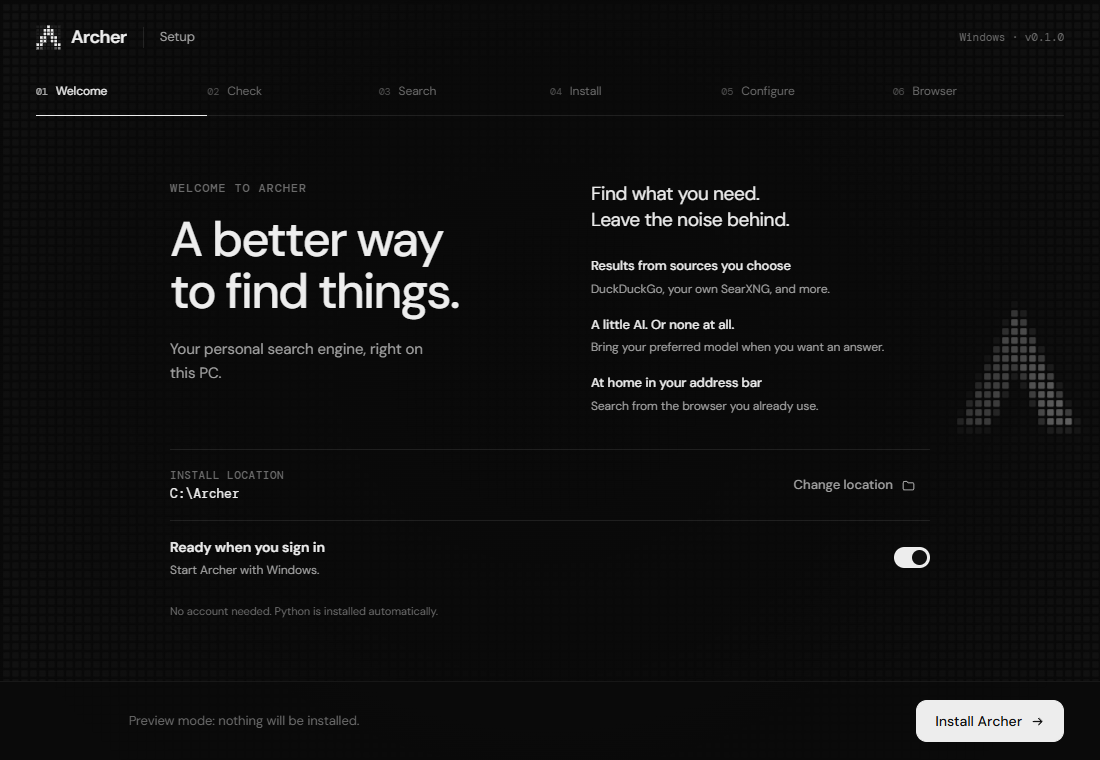
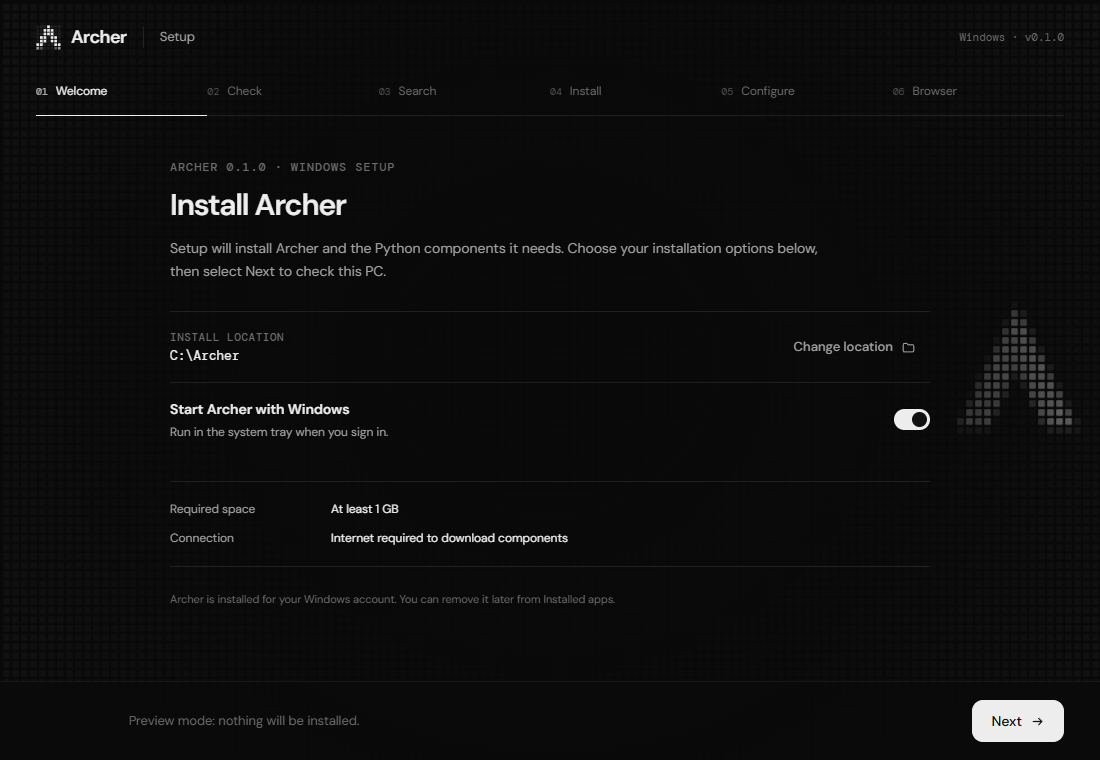
Use a conventional installer options page for setup

diff --git a/installer/ui/setup.css b/installer/ui/setup.css
@@ -89,14 +89,13 @@ body.is-intro .panel { opacity: 0; }
 .tile--letter { width: 40px; height: 40px; background: #f2f2f2; color: #111; font: 700 17px var(--font-display); }
 
 /* welcome */
-.view[data-view=welcome] { display: grid; grid-template-columns: 1.1fr 1fr; align-content: center; column-gap: 48px; row-gap: 34px; }
-.welcome-heading h1 { margin-top: 18px; font-size: 49px; line-height: 1.06; font-weight: 500; }
-.welcome-caption { margin: 20px 0 0; color: var(--text-2); font-size: 15px; max-width: 260px; }
-.welcome-intro > p { margin: 0 0 22px; font-size: 19px; line-height: 1.4; letter-spacing: -.02em; }
-.welcome-features { display: grid; gap: 17px; margin: 0; padding: 0; list-style: none; }
-.welcome-features li { display: grid; gap: 3px; }
-.welcome-features b { font-size: 13px; font-weight: 500; }
-.welcome-features span { color: var(--text-2); font-size: 12px; line-height: 1.5; }
+.view[data-view=welcome] { display: block; padding-top: 44px; }
+.welcome-heading h1 { margin-top: 12px; font-size: 30px; line-height: 1.2; font-weight: 600; }
+.welcome-caption { margin: 14px 0 28px; color: var(--text-2); font-size: 14px; max-width: 650px; line-height: 1.65; }
+.install-requirements { display: grid; gap: 10px; margin: 24px 0; padding: 18px 0; border-top: 1px solid var(--border); border-bottom: 1px solid var(--border); }
+.install-requirements > div { display: grid; grid-template-columns: 145px minmax(0, 1fr); gap: 16px; font-size: 12px; }
+.install-requirements dt { color: var(--text-2); }
+.install-requirements dd { margin: 0; color: var(--text); }
 .welcome-options { grid-column: 1 / -1; border-top: 1px solid var(--border); }
 .welcome-options .where { margin: 0; padding: 18px 0; border: 0; border-radius: 0; background: transparent; }
 .welcome-options .toggle { justify-content: space-between; margin: 0; padding: 15px 0; border: 0; border-top: 1px solid var(--border); border-radius: 0; background: transparent; }
@@ -287,10 +286,10 @@ kbd { padding: 2px 6px; border: 1px solid var(--border); border-radius: 5px; col
   .status { flex-basis: 45%; white-space: normal; font-size: 11px; }
   h1 { font-size: 38px; }
   h2 { font-size: 30px; }
-  .view[data-view=welcome] { grid-template-columns: 1fr; gap: 24px; align-content: start; }
-  .welcome-heading h1 { font-size: 38px; }
-  .welcome-intro > p { display: none; }
-  .welcome-caption { max-width: none; margin-top: 14px; }
+  .view[data-view=welcome] { padding-top: 26px; }
+  .welcome-heading h1 { font-size: 28px; }
+  .welcome-caption { max-width: none; }
+  .install-requirements > div { grid-template-columns: 110px minmax(0,1fr); gap: 10px; }
   .welcome-options .where { gap: 8px; }
   .welcome-options .where .btn { font-size: 11px; }
   .handoff { grid-template-columns: 1fr; }

diff --git a/installer/ui/index.html b/installer/ui/index.html
@@ -53,17 +53,9 @@
     <!-- ------------------------------------------------------------- welcome -->
     <section class="view" data-view="welcome" hidden>
       <div class="welcome-heading" data-rise>
-        <p class="kicker">Welcome to Archer</p>
-        <h1>A better way<br>to find things.</h1>
-        <p class="welcome-caption">Your personal search engine, right on this PC.</p>
-      </div>
-      <div class="welcome-intro" data-rise>
-        <p>Find what you need.<br>Leave the noise behind.</p>
-        <ul class="welcome-features">
-          <li><b>Results from sources you choose</b><span>DuckDuckGo, your own SearXNG, and more.</span></li>
-          <li><b>A little AI. Or none at all.</b><span>Bring your preferred model when you want an answer.</span></li>
-          <li><b>At home in your address bar</b><span>Search from the browser you already use.</span></li>
-        </ul>
+        <p class="kicker">Archer {{version}} · Windows setup</p>
+        <h1 data-welcome-title>Install Archer</h1>
+        <p class="welcome-caption">Setup will install Archer and the Python components it needs. Choose your installation options below, then select Next to check this PC.</p>
       </div>
       <div class="welcome-options" data-rise>
         <div class="where">
@@ -71,11 +63,15 @@
           <button type="button" class="btn btn--quiet" data-pick-dir>Change location<svg><use href="#i-folder"/></svg></button>
         </div>
         <label class="toggle">
-          <span><b>Ready when you sign in</b><span>Start Archer with Windows.</span></span>
+          <span><b>Start Archer with Windows</b><span>Run in the system tray when you sign in.</span></span>
           <input type="checkbox" data-autostart checked>
           <span class="switch" aria-hidden="true"></span>
         </label>
-        <p class="welcome-note">No account needed. Python is installed automatically.</p>
+        <dl class="install-requirements">
+          <div><dt>Required space</dt><dd>At least 1 GB</dd></div>
+          <div><dt>Connection</dt><dd>Internet required to download components</dd></div>
+        </dl>
+        <p class="welcome-note">Archer is installed for your Windows account. You can remove it later from Installed apps.</p>
       </div>
     </section>
 

diff --git a/installer/ui/setup.js b/installer/ui/setup.js
@@ -348,9 +348,10 @@ const VIEWS = {
     const dir = $("[data-dir]");
     dir.textContent = S.info.dir;
     dir.title = S.info.dir;
+    $("[data-welcome-title]").textContent = S.info.existing ? "Update Archer" : "Install Archer";
     $("[data-existing]").hidden = !S.info.existing;
     setNav({
-      label: S.info.existing ? "Update Archer" : "Install Archer",
+      label: "Next",
       primary: () => go("check"),
       status: S.info.dry ? "Preview mode: nothing will be installed." : "For you only. No admin rights needed.",
     });
@@ -650,7 +651,8 @@ async function start() {
     $("[data-dir]").textContent = r.dir;
     $("[data-dir]").title = r.dir;
     $("[data-existing]").hidden = !S.info.existing;
-    nav.label.textContent = S.info.existing ? "Update Archer" : "Install Archer";
+    nav.label.textContent = "Next";
+    $("[data-welcome-title]").textContent = S.info.existing ? "Update Archer" : "Install Archer";
   });
 
   await sleep(REDUCED ? 0 : 500);

diff --git a/docs/release-v0.1.md b/docs/release-v0.1.md
@@ -6,7 +6,7 @@ Download **ArcherSetup.exe** below and run it on Windows 10 or 11. Setup downloa
 
 ### Included
 
-- Custom installer with a redesigned welcome screen, a full-background pixel field, morphing artwork in the clear margin, and a compact step indicator.
+- Custom installer with a straightforward setup page for location, startup and requirements, a full-background pixel field, morphing artwork in the clear margin, and a compact step indicator.
 - Install location and startup choices, desktop and Start menu shortcuts, and Windows Installed apps integration.
 - Guided search, AI, personal preferences and browser setup.
 - DuckDuckGo, SearXNG, Google and Brave search; optional cloud AI or local Ollama.
